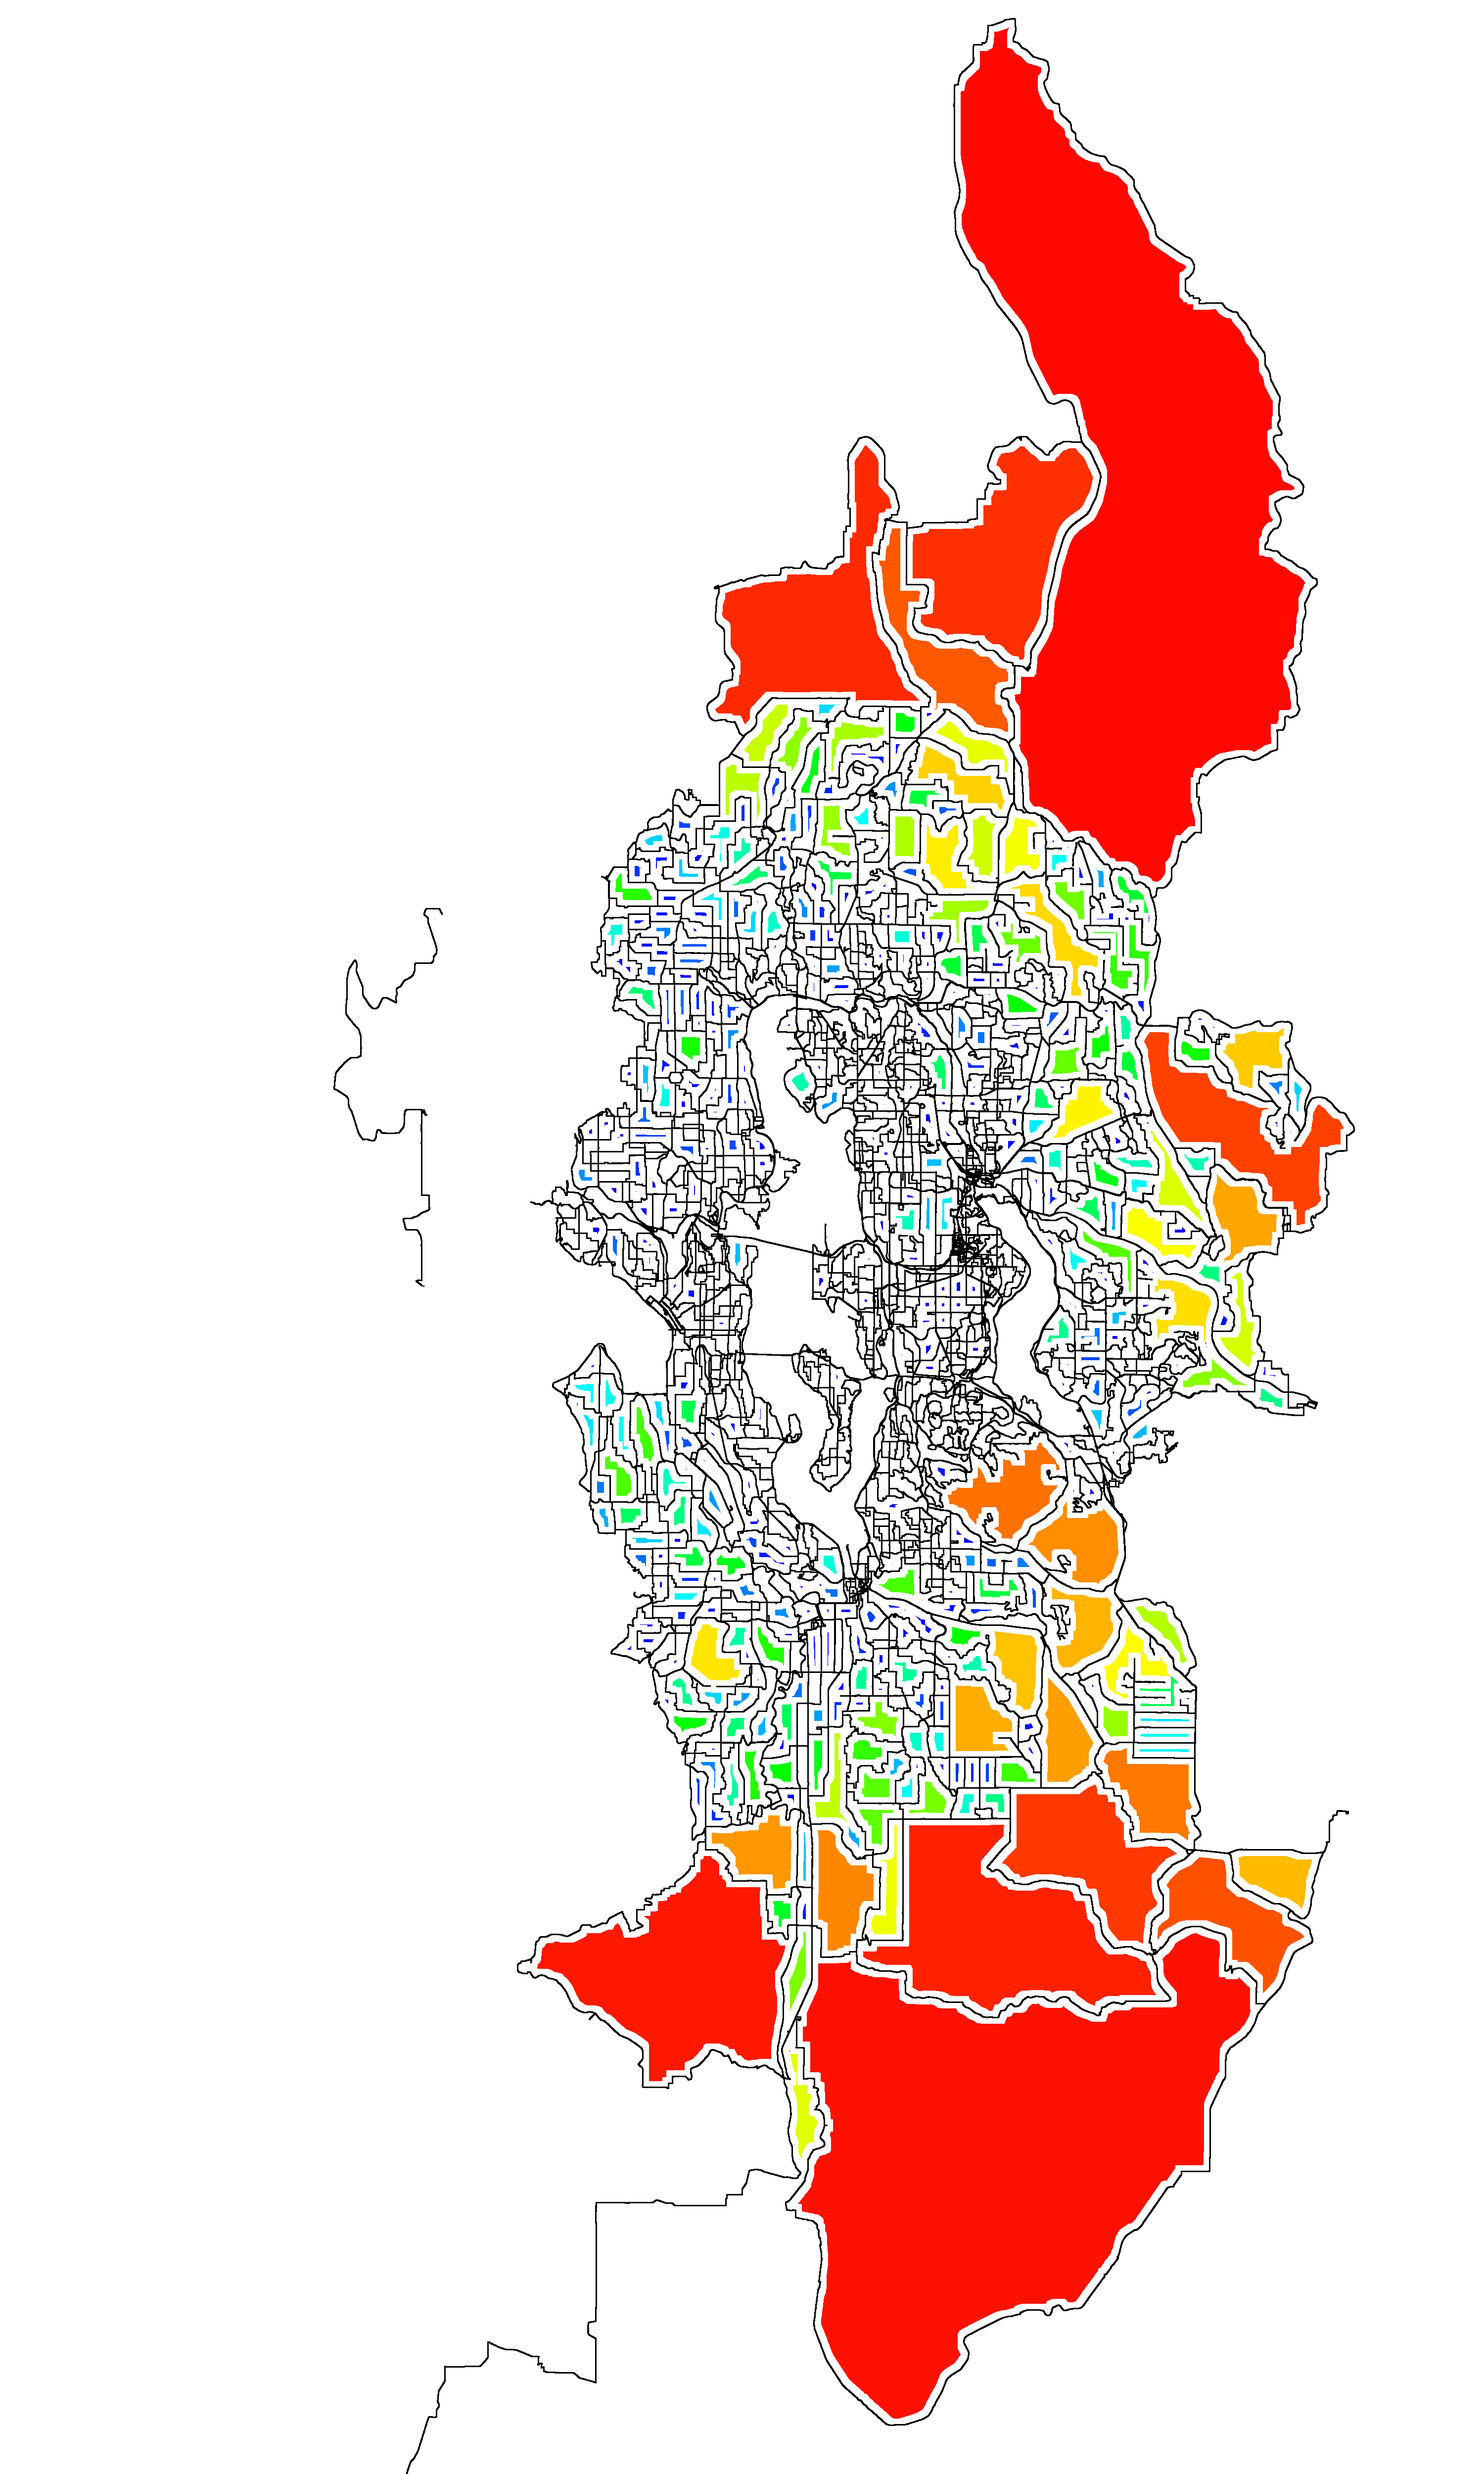
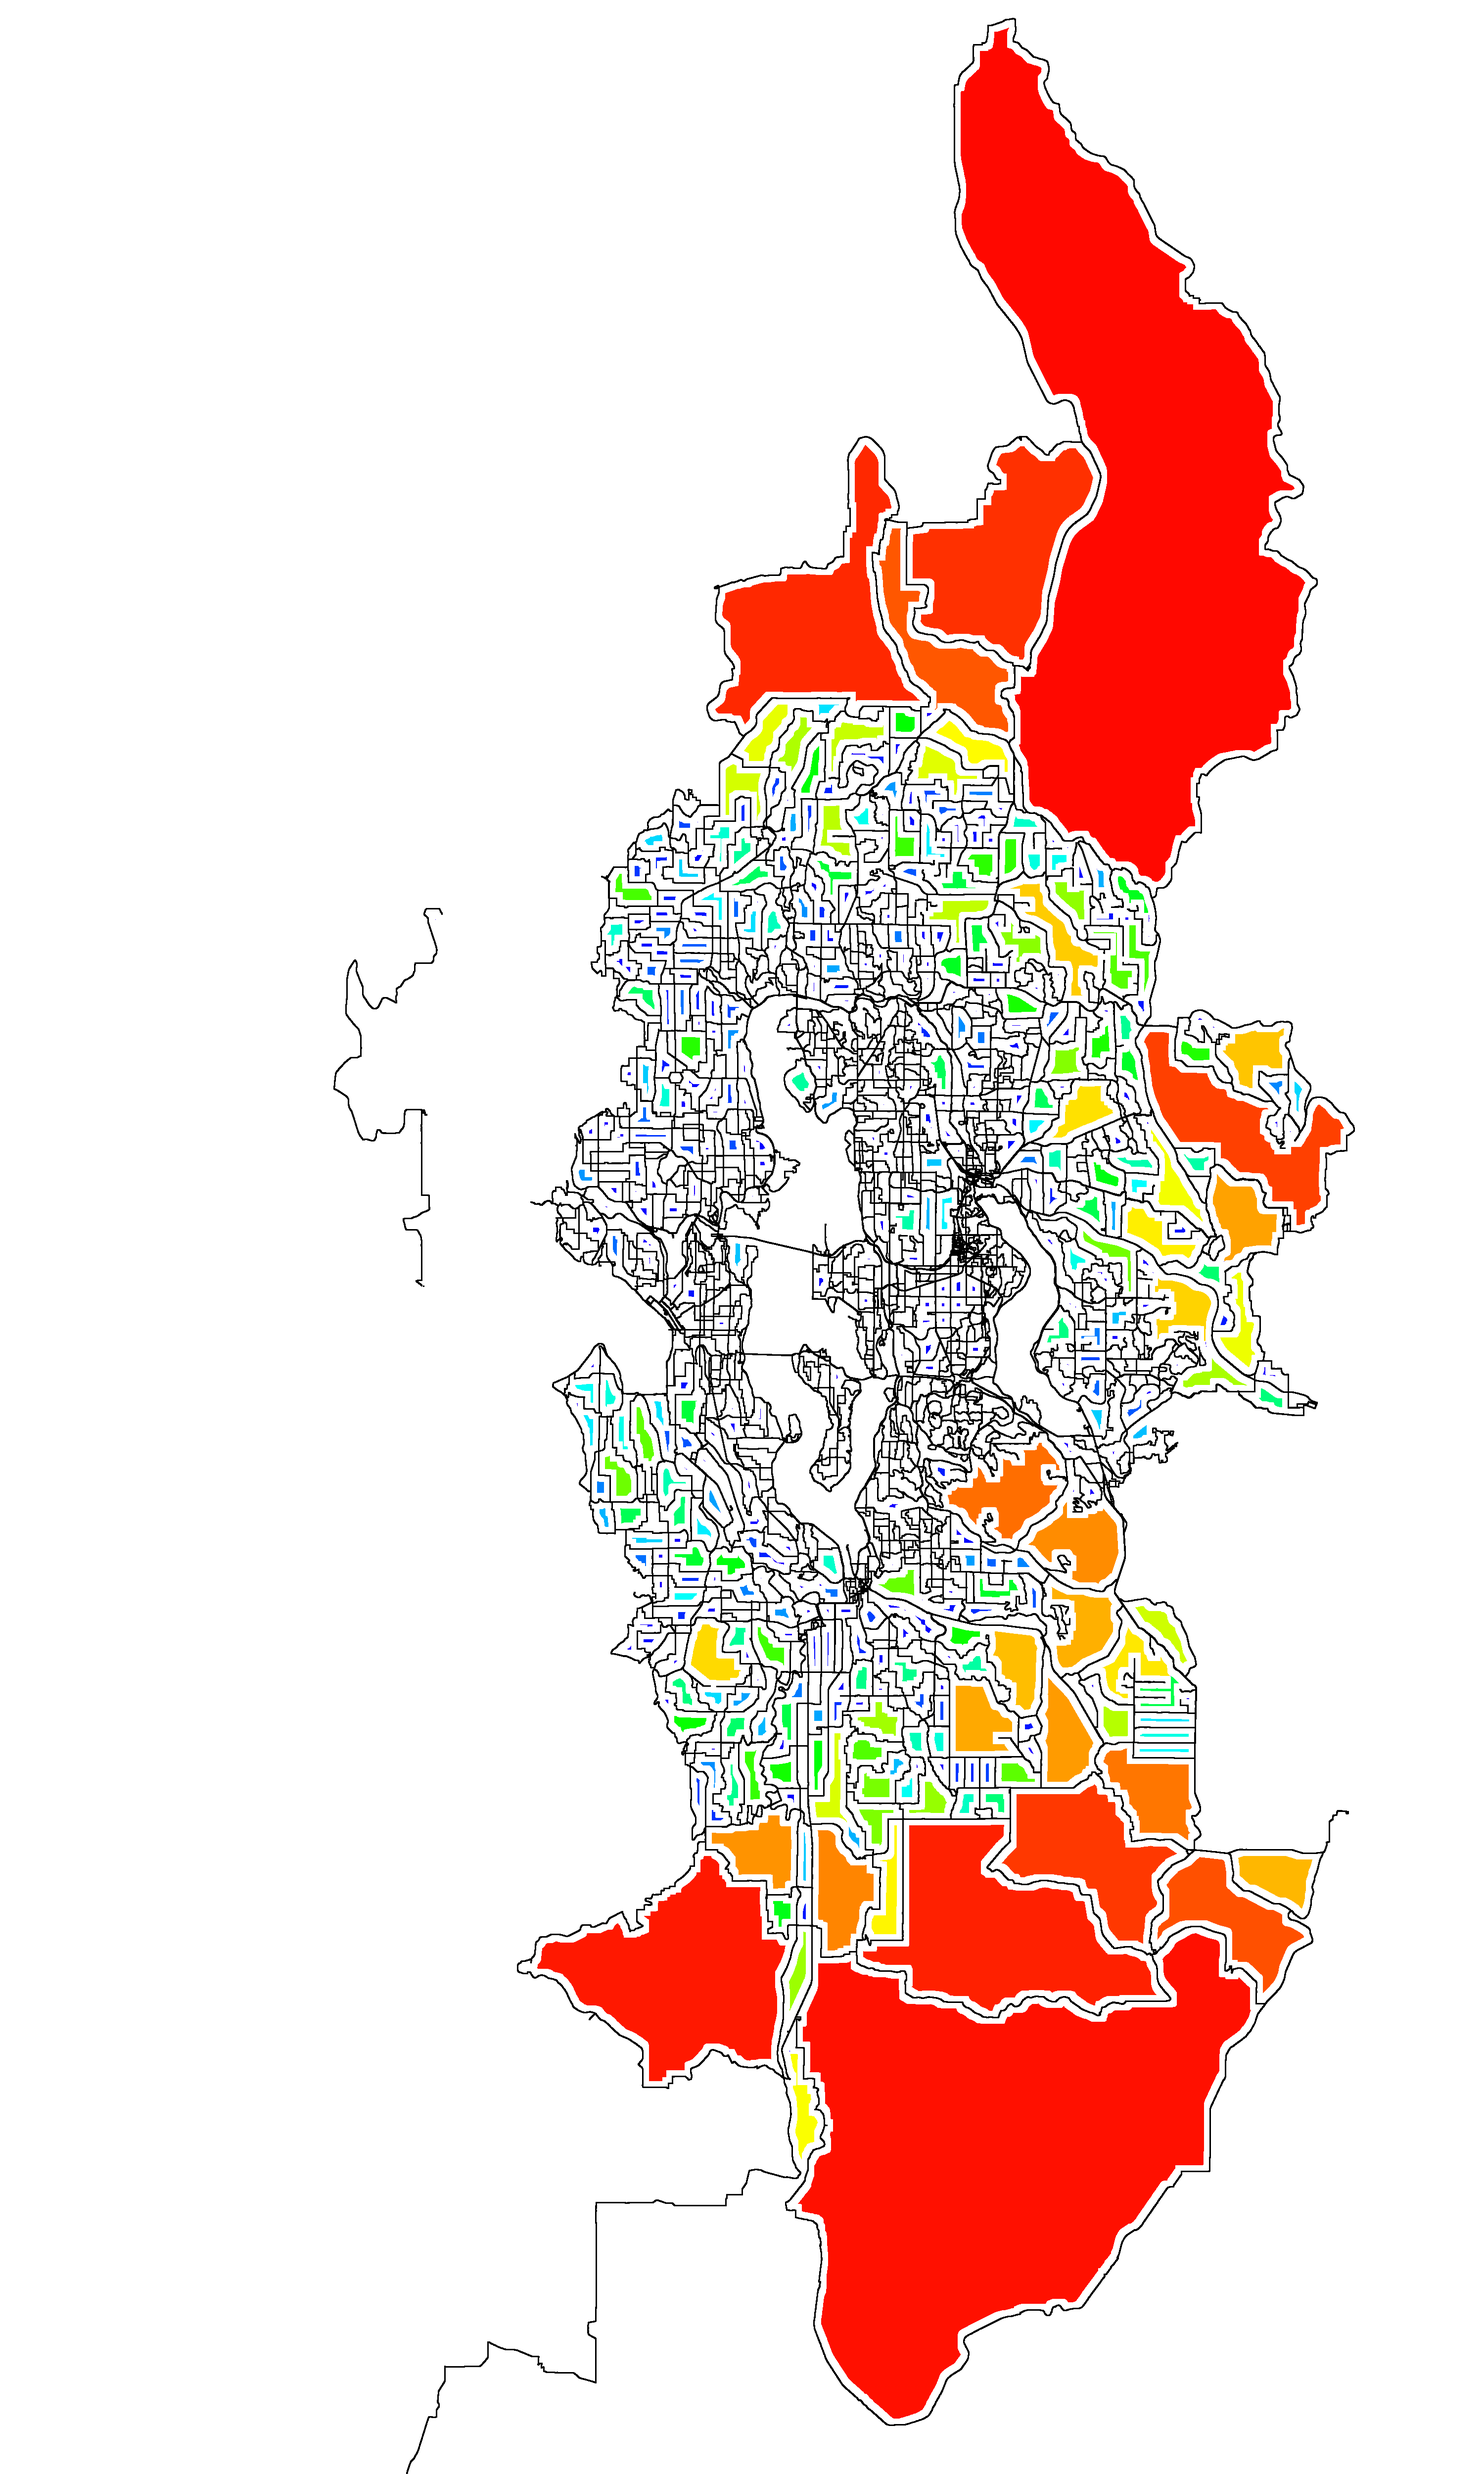
New scan + map

diff --git a/index.html b/index.html
@@ -34,6 +34,10 @@
     <img src="train.jpg" width="2000" height="323" style="max-width: 1000px; width: 100%; height: auto; border-radius: 4px;" loading="lazy">
     <figcaption style="margin: 2px 0 16px 0; color: gray; font-size: 0.9em;">iPhone Scan of Sound Transit Link Light Rail Series 2 in Redmond March 2026</figcaption>
   </figure>
+   <figure style="display: inline-block; margin: 2px;">
+    <img src="scanflag.jpg" width="1010" height="334" style="max-width: 1000px; width: 100%; height: auto; border-radius: 4px;" loading="lazy">
+    <figcaption style="margin: 2px 0 16px 0; color: gray; font-size: 0.9em;">Scan of Flag on Crane May 2026</figcaption>
+  </figure>
   <figure style="display: inline-block; margin: 2px;">
     <img src="projection2.jpg" width="1000" height="1000" style="height: auto;max-width: 100%; border-radius: 4px;" loading="lazy">
     <figcaption style="margin: 2px 0 0 0; color: gray; font-size: 0.9em;">Scan and Projection of Kiwano January 2026</figcaption>
@@ -50,7 +54,7 @@
   </figure>
   <figure style="display: inline-block; margin: 2px;">
     <img src="map2.png" width="3000" height="5000" style="height: auto; width: 100%; max-width: 1000px; border-radius: 4px;" loading="lazy">
-    <figcaption style="margin: 2px 0 0 0; color: gray; font-size: 0.9em;">Seattle Bike Area Map April 2026</figcaption>
+    <figcaption style="margin: 2px 0 0 0; color: gray; font-size: 0.9em;">Seattle Bike Area Map May 2026</figcaption>
   </figure>
 
   <h3>---</h3>
